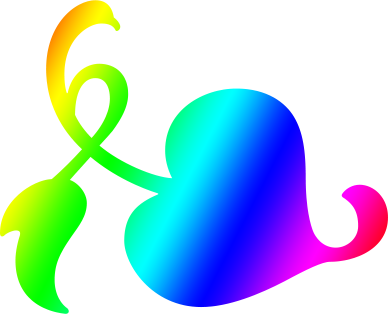
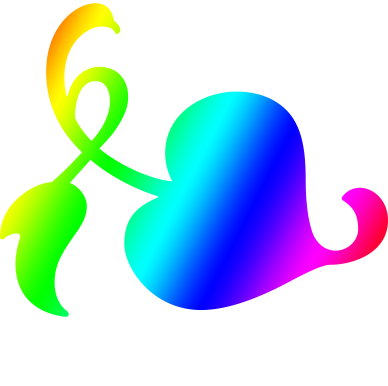
Fixed a bug where the code could not be run multiple times, I believe this was due to dirty memory being re-used.
There is a bug in the cropping code, I tried to make the algorithm better by only testing a single pixel once but it's not quite perfect yet.

diff --git a/KGPixelBoundsClip.m b/KGPixelBoundsClip.m
@@ -9,7 +9,7 @@
 #import "KGPixelBoundsClip.h"
 
 @interface KGPixelBoundsClip : NSObject
-@property (nonatomic) unsigned char *rawData;
+@property (strong, nonatomic) NSData *data;
 @property (nonatomic) NSUInteger topLeftX, topLeftY;
 @property (nonatomic) NSUInteger bottomRightX, bottomRightY;
 @property (nonatomic) CGFloat tolerance;
@@ -31,23 +31,12 @@
 #else
     CGImageRef imageRef = [(NSImage *)image CGImageForProposedRect:nil context:nil hints:nil];
 #endif
+    CGDataProviderRef provider = CGImageGetDataProvider(imageRef);
+    self.data = CFBridgingRelease(CGDataProviderCopyData(provider));
+    
     self.width = CGImageGetWidth(imageRef);
-    NSUInteger height = CGImageGetHeight(imageRef);
-    CGColorSpaceRef colorSpace = CGColorSpaceCreateDeviceRGB();
-    NSUInteger bytesPerPixel = 4;
-    NSUInteger bitsPerComponent = 8;    
-    self.rawData = malloc(height*self.width*bytesPerPixel);
-    NSUInteger bytesPerRow = bytesPerPixel*self.width;
-    CGContextRef context = CGBitmapContextCreate(self.rawData, self.width, height,
-												 bitsPerComponent, bytesPerRow, colorSpace,
-												 kCGImageAlphaPremultipliedLast|kCGBitmapByteOrder32Big);
-    CGColorSpaceRelease(colorSpace);
-
-    CGContextDrawImage(context, CGRectMake(0, 0, self.width, height), imageRef);
-    CGContextRelease(context);
-
     self.bottomRightX = self.width-1;
-    self.bottomRightY = height-1;
+    self.bottomRightY = CGImageGetHeight(imageRef)-1;
 
     [self findTopLeftPoint];
     [self findBottomRightPoint];
@@ -55,13 +44,11 @@
     return self;
 }
 
-- (void)dealloc{
-    free(self.rawData);
-}
-
 - (BOOL)pixelIsOpaqueAtX:(NSUInteger)x andY:(NSUInteger)y{
+//    NSLog(@"%ld, %ld", (unsigned long)x, (unsigned long)y);
     NSUInteger pixelIndex = (y*self.width+x)*4;
-    CGFloat alpha = (CGFloat)self.rawData[pixelIndex+3]/255;
+    const uint8_t *bytes = [self.data bytes];
+    CGFloat alpha = (CGFloat)bytes[pixelIndex+3]/255;
     if(alpha > 0){
         return (alpha >= self.tolerance);
     }
@@ -110,19 +97,17 @@
         return;
     }
 
-    BOOL foundY = [self rowContainsOpaquePixelInRowY:self.topLeftY fromX:self.topLeftX reversed:NO];
-    BOOL foundX = [self rowContainsOpaquePixelInRowX:self.topLeftX fromY:self.topLeftY reversed:NO];
+    if([self rowContainsOpaquePixelInRowY:self.topLeftY fromX:self.topLeftX reversed:NO]){
+        return;
+    }
+    self.topLeftY++;
 
-    if(!foundY){
-        self.topLeftY++;
+    if([self rowContainsOpaquePixelInRowX:self.topLeftX fromY:self.topLeftY reversed:NO]){
+        return;
     }
-    if(!foundX){
-        self.topLeftX++;
-    }
-
-    if(!foundX || !foundY){
-        [self findTopLeftPoint];
-    }
+    self.topLeftX++;
+    
+    [self findTopLeftPoint];
 }
 
 - (void)findBottomRightPoint{
@@ -133,19 +118,17 @@
         return;
     }
 
-    BOOL foundY = [self rowContainsOpaquePixelInRowY:self.bottomRightY fromX:self.bottomRightX reversed:YES];
-    BOOL foundX = [self rowContainsOpaquePixelInRowX:self.bottomRightX fromY:self.bottomRightY reversed:YES];
+    if([self rowContainsOpaquePixelInRowY:self.bottomRightY fromX:self.bottomRightX reversed:YES]){
+        return;
+    }
+    self.bottomRightY--;
 
-    if(!foundY){
-        self.bottomRightY--;
+    if([self rowContainsOpaquePixelInRowX:self.bottomRightX fromY:self.bottomRightY reversed:YES]){
+        return;
     }
-    if(!foundX){
-        self.bottomRightX--;
-    }
+    self.bottomRightX--;
 
-    if(!foundX || !foundY){
-        [self findBottomRightPoint];
-    }
+    [self findBottomRightPoint];
 }
 
 - (CGRect)rect{
@@ -162,6 +145,9 @@
     }else{
         clipRect.origin.y = 0;
     }
+
+//    NSLog(@"{%f, %f, %f, %f}", clipRect.origin.x, clipRect.origin.y, clipRect.size.width, clipRect.size.height);
+
     return clipRect;
 }
 

diff --git a/readme.md b/readme.md
@@ -1,3 +1,7 @@
+** WARNING: ** This project is not yet ready for use, it's close but not quite there yet. Check back in a couple of hours ;)
+
+---
+
 KGPixelBoundsClip is an `NSImage` category that provides methods to find the pixel bounds of an image and create a new image clipped to those bounds.
 
 There are two sets of methods, the first returns the pixel bounds of an image as a rect. The second uses these methods to create a new image clipped to the pixel bounds.
